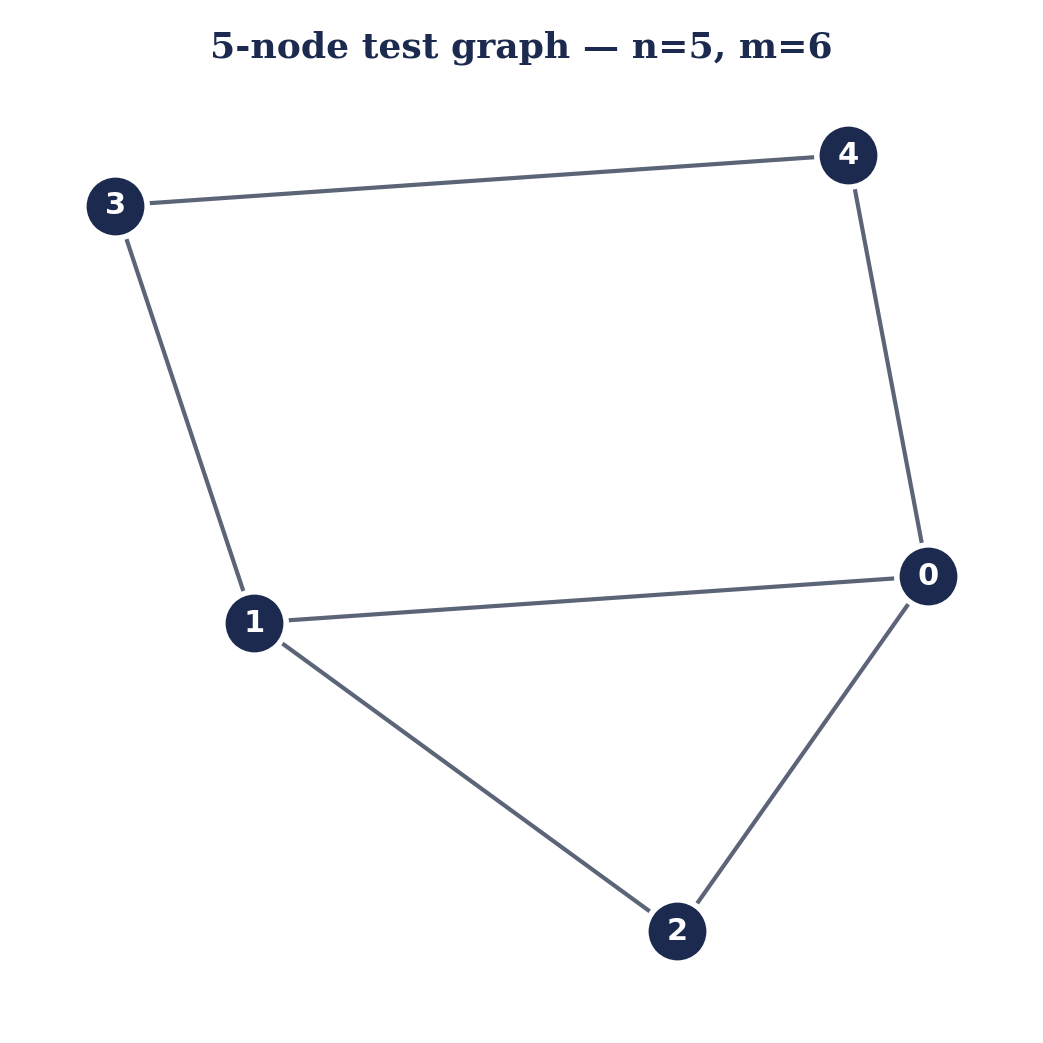
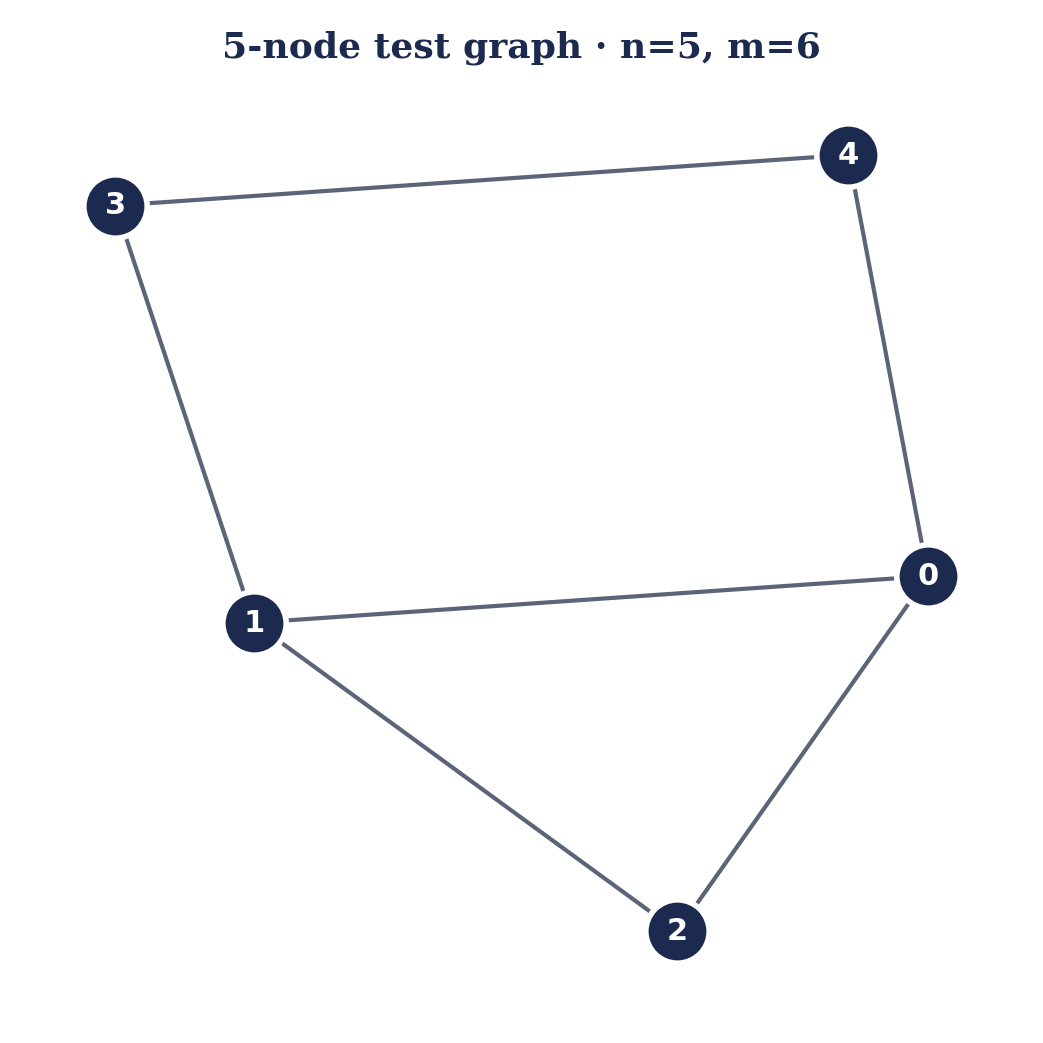
Remove all em-dash symbols for clean professional typography

Changed region(s): [[0.1841, 0.0307, 0.7977, 0.0614]]

diff --git a/src/lib/portfolio-data.ts b/src/lib/portfolio-data.ts
@@ -1,6 +1,6 @@
 /**
  * ============================================================================
- *  PORTFOLIO DATA — Djabon Ounimborbitibou
+ *  PORTFOLIO DATA · Djabon Ounimborbitibou
  * ============================================================================
  *  Same structure as v1 (profile, projects, skills, timeline).
  *  All content is from Djabon's actual CV, GitHub, and research.
@@ -97,7 +97,7 @@ export const projects: Project[] = [
       ],
       conclusions: [
         "QAOA at depth $p=3$ matches the Goemans-Williamson approximation ratio (0.885 vs 0.878 theoretical bound) on this small graph, with the optimal bitstring appearing as the most-probable measurement outcome.",
-        "The QAOA cost Hamiltonian is sparse: one $Z_i Z_j$ term per edge. For a 3-regular graph on $n$ qubits the circuit has $O(3n)$ two-qubit gates — practical for current NISQ devices at small $p$.",
+        "The QAOA cost Hamiltonian is sparse: one $Z_i Z_j$ term per edge. For a 3-regular graph on $n$ qubits the circuit has $O(3n)$ two-qubit gates · practical for current NISQ devices at small $p$.",
         "The variational landscape at small $p$ is well-conditioned: COBYLA converges in fewer than 100 evaluations for our 5-node graph. Barren plateaus are not an issue here (they emerge only for random circuits with high depth).",
         "Open directions: (a) test on the 10-node Petersen graph (where frustration makes QAOA harder), (b) extend to weighted Max-Cut and constrained variants (e.g., portfolio optimization), (c) run on real IBM Quantum hardware to measure noise-limited effective depth.",
       ],
@@ -196,7 +196,7 @@ export const projects: Project[] = [
     featured: true,
     details: {
       overview:
-        "Quantum decoupling theorems are the workhorses of modern quantum information theory: they say that, given a tripartite state $\\rho^{ABE}$, one can often find a local isometry on $B$ that decouples $A$ from $E$, leaving $A$ in a pure state. They underpin entropy bounds, channel capacities, and the security of many quantum cryptographic protocols. A subtler question is private decoupling: when can a single isometry simultaneously decouple $A$ from $E$ while leaving $A$ entangled (correlated) with a third party $R$ — i.e. hide information from $E$ but reveal it to $R$? Buscemi (2009) gave sufficient conditions but the necessary and sufficient condition was not known even for the simplest case of two-qubit separable $\\rho^{ABE}$. This thesis closes that gap.",
+        "Quantum decoupling theorems are the workhorses of modern quantum information theory: they say that, given a tripartite state $\\rho^{ABE}$, one can often find a local isometry on $B$ that decouples $A$ from $E$, leaving $A$ in a pure state. They underpin entropy bounds, channel capacities, and the security of many quantum cryptographic protocols. A subtler question is private decoupling: when can a single isometry simultaneously decouple $A$ from $E$ while leaving $A$ entangled (correlated) with a third party $R$ · i.e. hide information from $E$ but reveal it to $R$? Buscemi (2009) gave sufficient conditions but the necessary and sufficient condition was not known even for the simplest case of two-qubit separable $\\rho^{ABE}$. This thesis closes that gap.",
       methods: [
         "Formalised the private-decoupling problem as: find isometry $V: B \\to B_1 B_2$ such that $\\rho^{A E}_{\\text{out}} = \\mathrm{Tr}_{B_1 B_2}[V \\rho^{ABE} V^\\dagger] \\approx \\rho^A \\otimes \\rho^E$ (decoupling) and $\\rho^{A B_1}_{\\text{out}} \\approx \\rho^{A B_1}_{\\text{pure entangled}}$ (hiding).",
         "Restricted attention to separable two-qubit $\\rho^{ABE}$, the smallest non-trivial case where Buscemi's construction was incomplete.",

diff --git a/src/app/globals.css b/src/app/globals.css
@@ -45,7 +45,7 @@
 }
 
 /* ============================================================
-   IVORY & NAVY — Academic Light Palette
+   IVORY & NAVY · Academic Light Palette
    (Same v1 UI/UX, but light + warm, never black)
    ============================================================ */
 
@@ -85,7 +85,7 @@
   --sidebar-border: #E8E2D5;
   --sidebar-ring: #B87333;
 
-  /* Quantum-Indigo in light mode — soft, warm, never black */
+  /* Quantum-Indigo in light mode · soft, warm, never black */
   --quantum-indigo: #1B2A4E;
   --quantum-cyan:   #B87333;       /* recolored to copper for the academic theme */
   --quantum-gold:   #D49968;
@@ -154,7 +154,7 @@
 }
 
 /* ============================================================
-   QUANTUM PORTFOLIO — Animations (kept from v1)
+   QUANTUM PORTFOLIO · Animations (kept from v1)
    ============================================================ */
 
 @keyframes quantum-pulse {
@@ -177,7 +177,7 @@
   to   { background-position: 60px 60px; }
 }
 
-/* Light version of the hero background — warm radial gradients, never black */
+/* Light version of the hero background · warm radial gradients, never black */
 .quantum-hero-bg {
   background-image:
     radial-gradient(ellipse 800px 400px at top left,  rgba(27, 42, 78, 0.08), transparent 60%),

diff --git a/src/app/layout.tsx b/src/app/layout.tsx
@@ -22,7 +22,7 @@ const garamond = EB_Garamond({
 });
 
 export const metadata: Metadata = {
-  title: "Djabon Ounimborbitibou — Quantum Information Researcher",
+  title: "Djabon Ounimborbitibou · Quantum Information Researcher",
   description: "Academic portfolio of Djabon Ounimborbitibou, MSc Mathematical Sciences (Distinction, AIMS Ghana). Research in quantum information theory, quantum chemistry, and quantum-assisted machine learning. Seeking PhD positions in quantum communication, computing, and information.",
   keywords: ["quantum information", "quantum communication", "Qiskit", "PennyLane", "quantum computing", "decoupling", "quantum chemistry", "VSC", "QML", "PhD", "Djabon", "Ounimborbitibou", "AIMS Ghana"],
   authors: [{ name: "Djabon Ounimborbitibou" }],
@@ -30,7 +30,7 @@ export const metadata: Metadata = {
     icon: [{ url: "/favicon.svg", type: "image/svg+xml" }],
   },
   openGraph: {
-    title: "Djabon Ounimborbitibou — Quantum Information Researcher",
+    title: "Djabon Ounimborbitibou · Quantum Information Researcher",
     description: "Academic portfolio. MSc Mathematical Sciences (Distinction, AIMS Ghana). Seeking PhD positions in quantum information, computing, and communication.",
     type: "website",
   },

diff --git a/src/components/portfolio/math-text.tsx b/src/components/portfolio/math-text.tsx
@@ -5,12 +5,12 @@ import "katex/dist/katex.min.css";
 
 /**
  * Render a paragraph that may contain $...$ (inline math) and $$...$$ (block math).
- * Use sparingly — for plain text without LaTeX, prefer a normal <p>.
+ * Use sparingly · for plain text without LaTeX, prefer a normal <p>.
  */
 export function MathText({ text, className }: { text: string; className?: string }) {
   // Split on $$...$$ first (block), then on $...$ (inline)
   const parts: React.ReactNode[] = [];
-  // Regex: match $$...$$ (block) OR $...$ (inline) — non-greedy
+  // Regex: match $$...$$ (block) OR $...$ (inline) · non-greedy
   const regex = /(\$\$[^$]+\$\$|\$[^$]+\$)/g;
   let lastIndex = 0;
   let key = 0;

diff --git a/src/components/portfolio/projects-section.tsx b/src/components/portfolio/projects-section.tsx
@@ -184,7 +184,7 @@ function ProjectCard({ project, index }: { project: Project; index: number }) {
           ))}
         </div>
 
-        {/* Links — stopped to avoid triggering Link navigation when clicking these */}
+        {/* Links · stopped to avoid triggering Link navigation when clicking these */}
         <div className="flex items-center gap-4 pt-3 border-t border-border/40">
           {project.github && (
             <LinkIcon href={project.github} label="Code">

diff --git a/src/app/projects/decoupling-twouqubits/page.tsx b/src/app/projects/decoupling-twouqubits/page.tsx
@@ -6,7 +6,7 @@ export async function generateMetadata() {
   const project = projects.find((p) => p.id === "decoupling-twouqubits");
   if (!project) return { title: "Project not found" };
   return {
-    title: `${project.title} — Djabon Ounimborbitibou`,
+    title: `${project.title} · Djabon Ounimborbitibou`,
     description: project.tagline,
   };
 }

diff --git a/src/components/portfolio/experience-section.tsx b/src/components/portfolio/experience-section.tsx
@@ -16,7 +16,7 @@ const TYPE_META: Record<
 };
 
 export function ExperienceSection() {
-  // Sort by date descending (rough heuristic — assumes newest entries have later dates)
+  // Sort by date descending (rough heuristic · assumes newest entries have later dates)
   const sorted = [...timeline].sort((a, b) => b.date.localeCompare(a.date));
 
   return (

diff --git a/src/app/projects/qaoa-max-cut/page.tsx b/src/app/projects/qaoa-max-cut/page.tsx
@@ -6,7 +6,7 @@ export async function generateMetadata() {
   const project = projects.find((p) => p.id === "qaoa-max-cut");
   if (!project) return { title: "Project not found" };
   return {
-    title: `${project.title} — Djabon Ounimborbitibou`,
+    title: `${project.title} · Djabon Ounimborbitibou`,
     description: project.tagline,
   };
 }

diff --git a/src/app/projects/qapinn-wiser/page.tsx b/src/app/projects/qapinn-wiser/page.tsx
@@ -6,7 +6,7 @@ export async function generateMetadata() {
   const project = projects.find((p) => p.id === "qapinn-wiser");
   if (!project) return { title: "Project not found" };
   return {
-    title: `${project.title} — Djabon Ounimborbitibou`,
+    title: `${project.title} · Djabon Ounimborbitibou`,
     description: project.tagline,
   };
 }

diff --git a/src/app/projects/memoire-vsc/page.tsx b/src/app/projects/memoire-vsc/page.tsx
@@ -6,7 +6,7 @@ export async function generateMetadata() {
   const project = projects.find((p) => p.id === "memoire-vsc");
   if (!project) return { title: "Project not found" };
   return {
-    title: `${project.title} — Djabon Ounimborbitibou`,
+    title: `${project.title} · Djabon Ounimborbitibou`,
     description: project.tagline,
   };
 }

diff --git a/README.md b/README.md
@@ -1,15 +1,15 @@
-# Djabon Ounimborbitibou — Personal Portfolio
+# Djabon Ounimborbitibou · Personal Portfolio
 
 My academic portfolio. Built with Next.js, TypeScript, Tailwind CSS, and a custom ivory-and-navy academic theme.
 
 ## What's on the site
 
-- **Hero** — name, MSc credential (AIMS Ghana, Distinction), PhD-seeking badge, and key stats
-- **About** — bio + quick-facts card (location, email, phone, current focus, recognition)
-- **Projects** — 9 cards filterable by category (QKD / Algorithms / Simulation / Quantum ML / Hardware / Tools / Research)
-- **Skills** — 25 skills across Quantum & QChem, Programming, Math & Theory, Tools
-- **Timeline** — 15 entries: research, education, teaching, awards, training
-- **Contact** — email CTA, social links, academic references
+- **Hero** · name, MSc credential (AIMS Ghana, Distinction), PhD-seeking badge, and key stats
+- **About** · bio + quick-facts card (location, email, phone, current focus, recognition)
+- **Projects** · 9 cards filterable by category (QKD / Algorithms / Simulation / Quantum ML / Hardware / Tools / Research)
+- **Skills** · 25 skills across Quantum & QChem, Programming, Math & Theory, Tools
+- **Timeline** · 15 entries: research, education, teaching, awards, training
+- **Contact** · email CTA, social links, academic references
 
 ## How to add or update a project
 
@@ -29,7 +29,7 @@ Open `src/lib/portfolio-data.ts`, find the `projects` array, and add a new entry
   category: "algorithm",      // qkd | algorithm | simulation | ml | hardware | tool | research
   github: "https://github.com/djabelo712/my-new-project",
   date: "2026-09",
-  featured: true,             // optional — featured cards appear first
+  featured: true,             // optional · featured cards appear first
 },
 ```
 
@@ -51,8 +51,8 @@ In the same `projects` array, find the entry by `id` and edit any field. For exa
 ### To add a GitHub project I haven't published yet
 
 Two options:
-1. **Push the project to GitHub first**, then add the `github:` URL to a project entry — the "Code" link appears automatically.
-2. **Use a Google Drive link** instead (set `driveLink:` instead of `github:`) — the "Drive" button appears.
+1. **Push the project to GitHub first**, then add the `github:` URL to a project entry · the "Code" link appears automatically.
+2. **Use a Google Drive link** instead (set `driveLink:` instead of `github:`) · the "Drive" button appears.
 
 ### To add a new skill
 
@@ -69,7 +69,7 @@ In the `timeline` array, add:
 ```ts
 {
   id: "new-entry",
-  date: "Sep 2026 — present",
+  date: "Sep 2026 · present",
   title: "PhD in Quantum Information",
   organization: "Target University",
   description: "What I am working on.",
@@ -101,7 +101,7 @@ bun run dev        # http://localhost:3000
 bun run lint        # check code quality
 ```
 
-## Deploy to Vercel (recommended — free for personal use)
+## Deploy to Vercel (recommended · free for personal use)
 
 ### Step-by-step
 
@@ -134,7 +134,7 @@ bun run lint        # check code quality
 So the workflow is:
 1. Edit `src/lib/portfolio-data.ts` (add a project, update a skill, etc.)
 2. `git push`
-3. Vercel rebuilds in ~30 seconds — your live site is updated.
+3. Vercel rebuilds in ~30 seconds · your live site is updated.
 
 ### Alternative deployments
 
